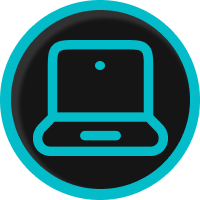
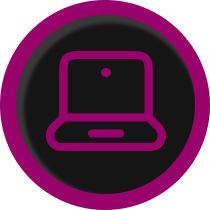
Added images

diff --git a/src/components/About.jsx b/src/components/About.jsx
@@ -1,37 +1,56 @@
-import backgroundImage from '../assets/aboutMe-2.png'; // If local
+import backgroundImage from '../assets/bg-img-aboutMe1.png';
 
 const About = () => {
   return (
-    // <div className="max-w-7xl mx-auto px-4 sm:px-6 lg:px-8 py-10">
-    //     <h2 className="text-white text-4xl font-bold text-center mb-12">
-    //       A Bit About Me 
-    //     </h2>
 
-    //     <div className="border px-6 py-8 rounded-md">
-    //       <p className="text-white text-lg"> My name is Maliha and I am a self-taught web developer from New York. I have a bachelor's degree from Hunter College (CUNY), major in biology and minor in computer science.
-    //         I have completed my internship as a web designer/developer in long island, NY. I am currenlty working part time as a Web Developer at WorkSmart Coworking. 
-    //       </p>
-    //           <br></br>
-    //       <p className="text-white text-lg">
+
+    // <div className="max-w-7xl mx-auto px-6 sm:px-6 lg:px-8 py-10">
+    //   <h2 className="text-white text-4xl font-bold text-center mb-12">
+    //     A Bit About Me 
+    //   </h2>
+    //   <div className="bg-[#3d204d] ">
+
+    //     <div className="flex items-center justify-center">
+    //       <p className="text-white p-7 text-xl drop-shadow-lg">
+    //         My name is Maliha and I am a self-taught web developer from New York. I have a bachelor's degree from Hunter College (CUNY), major in biology and minor in computer science. I have completed my internship as a web designer/developer in long island, NY. I am currenlty working part time as a Web Developer at WorkSmart Coworking.
     //         After completing my minor I was interested in programming, so I started looking at differnt careers and I decided to go for web development. I took few online courses and gained knowledge and experience in programming. Below are some of the projects that I have worked on.
     //       </p>
+    //       <img src={backgroundImage} className='absolute w-[220px] h-[150px]' />
     //     </div>
+    //   </div>
     // </div>
 
-    <div className="max-w-7xl mx-auto px-4 sm:px-6 lg:px-8 py-10">
-      <h2 className="text-white text-4xl font-bold text-center mb-12">
-        A Bit About Me 
-      </h2>
-      <div className="relative w-full h-[500px] sm:h-[400px] md:h-[350px] bg-cover bg-center"
-          style={{ backgroundImage: `url(${backgroundImage})`, imageRendering: 'auto'}} >
-        {/* <div className="absolute inset-0  "></div> */}
-        <div className="absolute inset-0 flex items-center justify-center">
-          <h1 className="text-white p-5  text-xl drop-shadow-lg">
-            Lorem ipsum dolor sit amet, consectetur adipiscing elit, sed do eiusmod tempor incididunt ut labore et dolore magna aliqua. Ut enim ad minim veniam, quis nostrud exercitation ullamco laboris nisi ut aliquip ex ea commodo consequat. Duis aute irure dolor in reprehenderit in voluptate velit esse cillum dolore eu fugiat nulla pariatur. Excepteur sint occaecat cupidatat non proident, sunt in culpa qui officia deserunt mollit anim id est laborum.
-          </h1>
-        </div>
-      </div>
-    </div>
+    <div className="max-w-7xl mx-auto px-6 sm:px-6 lg:px-8 py-10">
+  <h2 className="text-white text-4xl font-bold text-center mb-12">
+    A Bit About Me
+  </h2>
+
+  <div className="bg-[#3d204d] relative p-10 rounded-lg overflow-hidden">
+    {/* Background image */}
+    <img 
+      src={backgroundImage} 
+      alt="Background" 
+      className="absolute top-1/2 left-1/2 transform -translate-x-1/2 -translate-y-1/2 md:w-1/3 h-full object-contain "
+    />
+
+    {/* Text content */}
+    <p className="relative text-white text-md drop-shadow-lg z-10">
+      My name is Maliha and I am a self-taught web developer from New York. 
+      I have a bachelor's degree from Hunter College (CUNY), major in biology 
+      and minor in computer science. I have completed my internship as a web 
+      designer/developer in Long Island, NY. I am currently working part time 
+      as a Web Developer at WorkSmart Coworking.
+      <br /><br />
+      After completing my minor I was interested in programming, so I started 
+      looking at different careers and I decided to go for web development. 
+      I took few online courses and gained knowledge and experience in 
+      programming. Below are some of the projects that I have worked on.
+    </p>
+  </div>
+</div>
+
+
+
 
   )
 }

diff --git a/src/components/Skills.jsx b/src/components/Skills.jsx
@@ -4,19 +4,23 @@ const Skills = () => {
       <div className="grid grid-cols-1 sm:grid-cols-2 md:grid-cols-4 gap-4">
         <div className="border border-gray-500 radius-md rounded-xl shadow p-4 flex flex-col items-center">
           <img src='./public/Code.png' className="object-contain mb-2"/>
-          <h2 className="text-lg text-white font-semibold mb-2 mt-3">Languages</h2>
+          <h2 className="text-lg text-white font-md mb-2 mt-3">Languages</h2>
+          <p className="text-white">HTML5, CSS3, JavaScript (ES5, ES6)</p>
         </div>
         <div className="border border-gray-500 radius-md rounded-xl shadow p-4 flex flex-col items-center">
           <img src='./public/Framework.png' className="object-contain mb-2" />
-          <h2 className="text-lg text-white font-semibold mb-2 mt-3">Frameworks</h2>
+          <h2 className="text-lg text-white font-md mb-2 mt-3">Frameworks</h2>
+          <p className="text-white">Bootstrap, jQuery, React, Redux, Express, Mongoose</p>
         </div>
         <div className="border border-gray-500 radius-md rounded-xl shadow p-4 flex flex-col items-center">
           <img src='./public/Version.png' className="object-contain mb-2" />
-          <h2 className="text-lg text-white font-semibold mb-2 mt-3">Version Control</h2>
+          <h2 className="text-lg text-white font-md mb-2 mt-3">Version Control</h2>
+          <p className="text-white">Git and Github</p>
         </div>
         <div className="border border-gray-500 radius-md rounded-xl shadow p-4 flex flex-col items-center">
           <img src='./public/Design.png' className="object-contain mb-2" />
-          <h2 className="text-lg text-white font-semibold mb-2 mt-3">Design</h2>
+          <h2 className="text-lg text-white font-md mb-2 mt-3">Design</h2>
+          <p className="text-white">Figma, Photopea</p>
         </div>
       </div>
     </div>

diff --git a/src/App.jsx b/src/App.jsx
@@ -24,7 +24,7 @@ function App() {
             <div className="flex-1 flex items-center text-center lg:text-left px-4">
               <div className="max-w-lg">
                 <h1 className="text-white text-5xl sm:text-5xl md:text-6xl font-bold">
-                  Hey, I'm <span className="text-orange-400">{`<Maliha Tanweer />`}</span>
+                  Hey, I'm <span className="text-5xl sm:text-5xl md:text-6xl font-bold text-[#F58499]">{`<Maliha Tanweer />`}</span>
                 </h1>
                 <p className="text-white text-base xs:text-lg sm:text-xl mt-4 sm:mt-6 opacity-90">
                   I'm a self-taught web developer who likes to develop web apps.
@@ -46,6 +46,12 @@ function App() {
         {/* Bottom-aligned Icons */}
         <div className="absolute flex bottom-4 left-1/2 transform -translate-x-1/2 z-20 gap-2 sm:gap-4">
           <img className="icons hover:scale-110 transition-transform" src={Skill} alt="Skills Icon" />
+            {/* <!-- Tooltip --> */}
+  <span class="absolute bottom-full left-1/2 -translate-x-1/2 mb-2 
+               hidden group-hover:block 
+               bg-gray-900 text-white text-xs rounded py-1 px-2 whitespace-nowrap">
+    This is a tooltip
+  </span>
           <img className="icons hover:scale-110 transition-transform" src={Project} alt="Project Icon" />
           <img className="icons hover:scale-110 transition-transform" src={Work} alt="Work Icon" />
         </div>

diff --git a/src/components/Projects.jsx b/src/components/Projects.jsx
@@ -120,11 +120,11 @@ export default function Projects() {
               />
             </div>
 
-            <h3 className="text-2xl font-semibold text-blue-700 mb-2">
+            <h3 className="text-xl font-md text-white mb-2">
               {project.title}
             </h3>
 
-            <p className="text-gray-600 text-sm mb-6">
+            <p className="text-[#D2C6DE] text-sm mb-6">
               {project.description}
             </p>
           </div>
@@ -134,7 +134,7 @@ export default function Projects() {
               href={project.github}
               target="_blank"
               rel="noopener noreferrer"
-              className="bg-gray-800 text-white px-4 py-2 rounded-md text-sm hover:bg-gray-900 transition"
+              className="cursor-pointer border border-[#F58499] bg-[#F58499] text-white px-4 py-2 rounded-md text-sm hover:border-[#FF6E89] hover:bg-transparent transition"
             >
               GitHub
             </a>
@@ -143,7 +143,7 @@ export default function Projects() {
               href={project.live}
               target="_blank"
               rel="noopener noreferrer"
-              className="border border-blue-600 text-blue-600 px-4 py-2 rounded-md text-sm hover:bg-blue-50 transition"
+              className="cursor-pointer border border-[#F58499] text-white px-4 py-2 rounded-md text-sm hover:bg-[#F58499] transition"
             >
               Live Demo
             </a>

diff --git a/src/components/WorkExperience.jsx b/src/components/WorkExperience.jsx
@@ -72,14 +72,14 @@ const WorkExperience = () => {
 {/* <<<<<<< HEAD
         <div className="hidden md:flex absolute left-1/2 transform -translate-x-1/2 z-20 bg-dark border-4 border-[#00B6D2] rounded-full h-10 w-10 items-center justify-center shadow-md">
 ======= */}
-        <div className="hidden md:flex absolute left-1/2 transform -translate-x-1/2 z-20 bg-dark border-4 border-[#02BCC9] rounded-full h-10 w-10 items-center justify-center shadow-md">
+        <div className="hidden md:flex absolute left-1/2 transform -translate-x-1/2 z-20 bg-dark border-4 border-[#98026A] rounded-full h-10 w-10 items-center justify-center shadow-md">
 {/* >>>>>>> b6dd0e9509da051e32110c63ea5e617efd0421c5 */}
-          <ImportantDevicesIcon className="h-6 w-6 text-[#00B6D2]" />
+          <ImportantDevicesIcon className="h-6 w-6 text-[#98026A]" />
         </div>
 
         {/* Card */}
         <div
-          className={`bg-[#332847] shadow-lg rounded-xl p-6 md:p-8 w-full md:w-[45%] ${
+          className={`bg-gradient-to-b from-[#1E1125] to-[#4D2B60] shadow-lg rounded-xl p-6 md:p-8 w-full md:w-[45%] ${
             index % 2 === 0 ? "md:ml-auto" : "md:mr-auto"
           }`}
         >

diff --git a/index.html b/index.html
@@ -4,6 +4,7 @@
     <meta charset="UTF-8" />
     <link rel="icon" type="image/svg+xml" href="/vite.svg" />
     <link href="https://fonts.googleapis.com/css2?family=Space+Grotesk:wght@400;700&family=Inter&display=swap" rel="stylesheet">
+    <link href="https://fonts.googleapis.com/css2?family=Raleway:wght@400;500;700&display=swap" rel="stylesheet">
     <meta name="viewport" content="width=device-width, initial-scale=1.0" />
     <title>Vite + React</title>
   </head>

diff --git a/src/index.css b/src/index.css
@@ -73,8 +73,9 @@ button:focus-visible {
 
 
 body {
-  font-family: Arial, Helvetica, sans-serif;
-  background-color: #100622;
+  /* font-family: Arial, Helvetica, sans-serif; */
+  font-family: 'Raleway', sans-serif;
+  background-color: #1E1125;
   overflow-x: hidden !important;
 }
 
@@ -89,7 +90,7 @@ h1 span {
 }
 
 .icons {
-  width: 2.9rem;
+  width: 3.1rem;
 }
 
 
